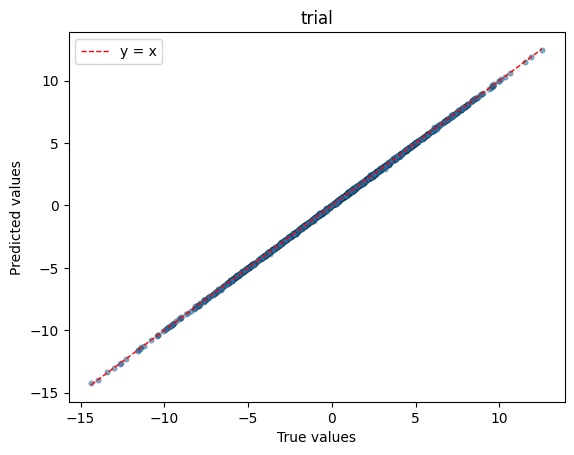
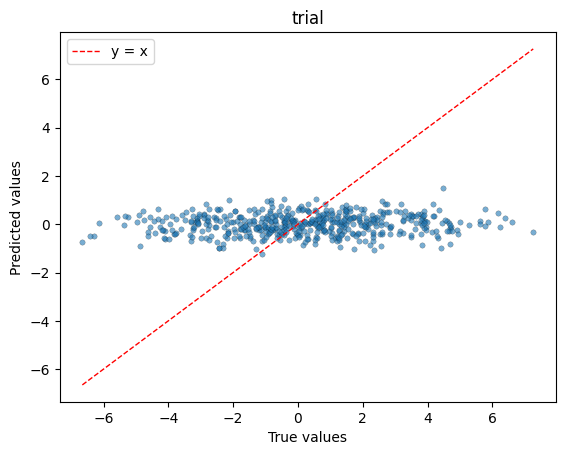
examples work figure out what is going on with results!

diff --git a/examples/fnn_example.py b/examples/fnn_example.py
@@ -22,7 +22,7 @@ def main():
     # y_true = X_true @ true_W + 0.1 * jax.random.normal(k_eps, (1024, 1))
 
 
-    data = DataLoader(seed=42, n_samples=500, n_features=10)
+    data = DataLoader(seed=43, n_samples=500, n_features=10) # creates
 
     sizes = [10, 64, 64, 1]
 
@@ -42,17 +42,18 @@ def main():
     print("the first predictions are ", y_pred)
 
 
-    # print("-----------------------------------------------------------")
-    # bde = BdeBuilder(sizes, n_members=3, epochs=500, optimizer=optax.adam(1e-2))
-    # # fit + predict
-    # bde.fit(x=X_true, y=y_true, optimizer=bde.optimizer, epochs=500, model=None)
-    # out = bde.predict_ensemble(X_true, include_members=True)
-    # print(out["ensemble_mean"])
-    # print(out["ensemble_var"])
-    #
-    # print("keys:", list(out.keys()))            # ['ensemble_mean', 'ensemble_var']
-    # print("mean shape:", out["ensemble_mean"].shape)
-    # plot_pred_vs_true(out["ensemble_mean"], y_true, "trial", savepath="to_be_deleted" )
+    print("-----------------------------------------------------------")
+    bde = BdeBuilder(sizes, n_members=3, epochs=500, optimizer=optax.adam(1e-2))
+    print(bde)
+    # fit + predict
+    bde.fit(x=data.x, y=data.y, optimizer=bde.optimizer, epochs=500, model=None)
+    out = bde.predict_ensemble(data.x, include_members=True)
+    print(out["ensemble_mean"])
+    print(out["ensemble_var"])
+
+    print("keys:", list(out.keys()))            # ['ensemble_mean', 'ensemble_var']
+    print("mean shape:", out["ensemble_mean"].shape)
+    plot_pred_vs_true(out["ensemble_mean"], data.y, "trial", savepath="to_be_deleted" )
 
 if __name__ == "__main__":
     main()

diff --git a/bde/bde_builder.py b/bde/bde_builder.py
@@ -95,7 +95,7 @@ class BdeBuilder(Fnn, FnnTrainer):
 
         # single-model forward from the trainer; avoids name collision with this method
         member_preds = jnp.stack(
-            [super().predict(m.params, x) for m in self.members],
+            [super().predict(x) for m in self.members],
             axis=0
         )  # (n_members, n_samples, output_dim)
 
